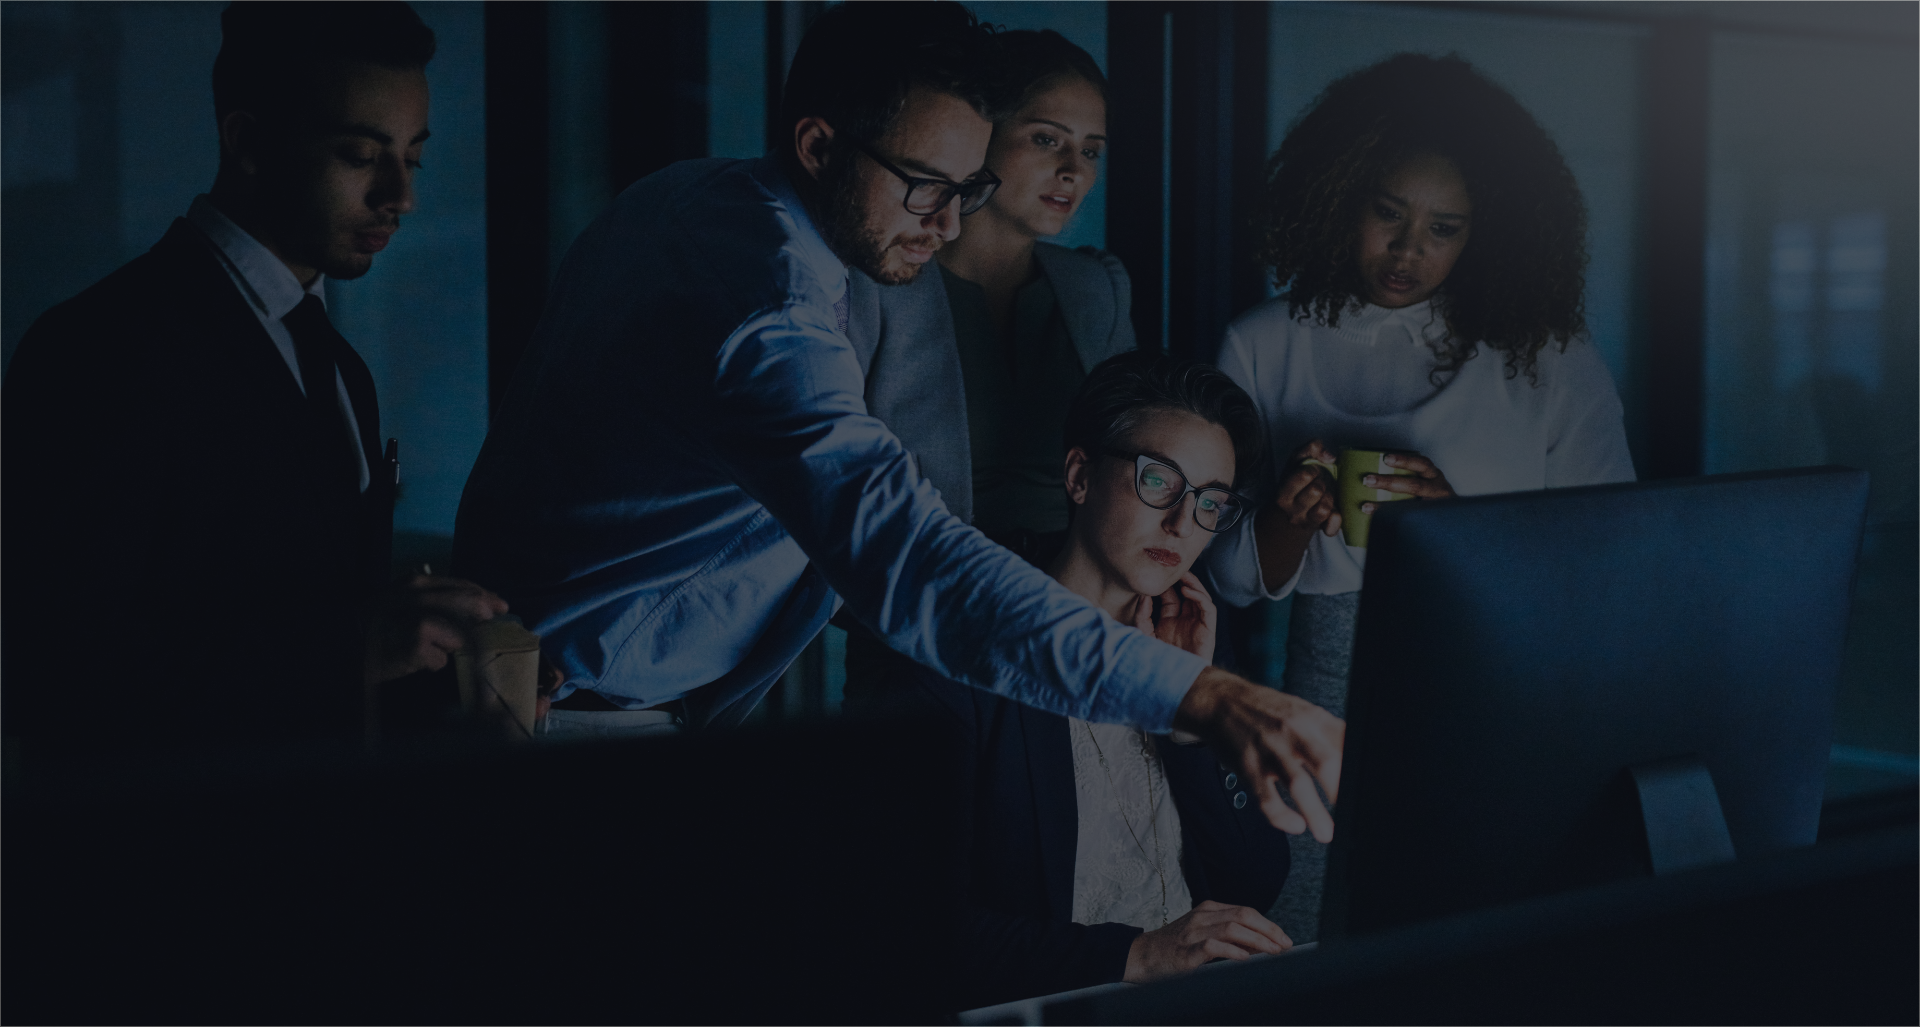
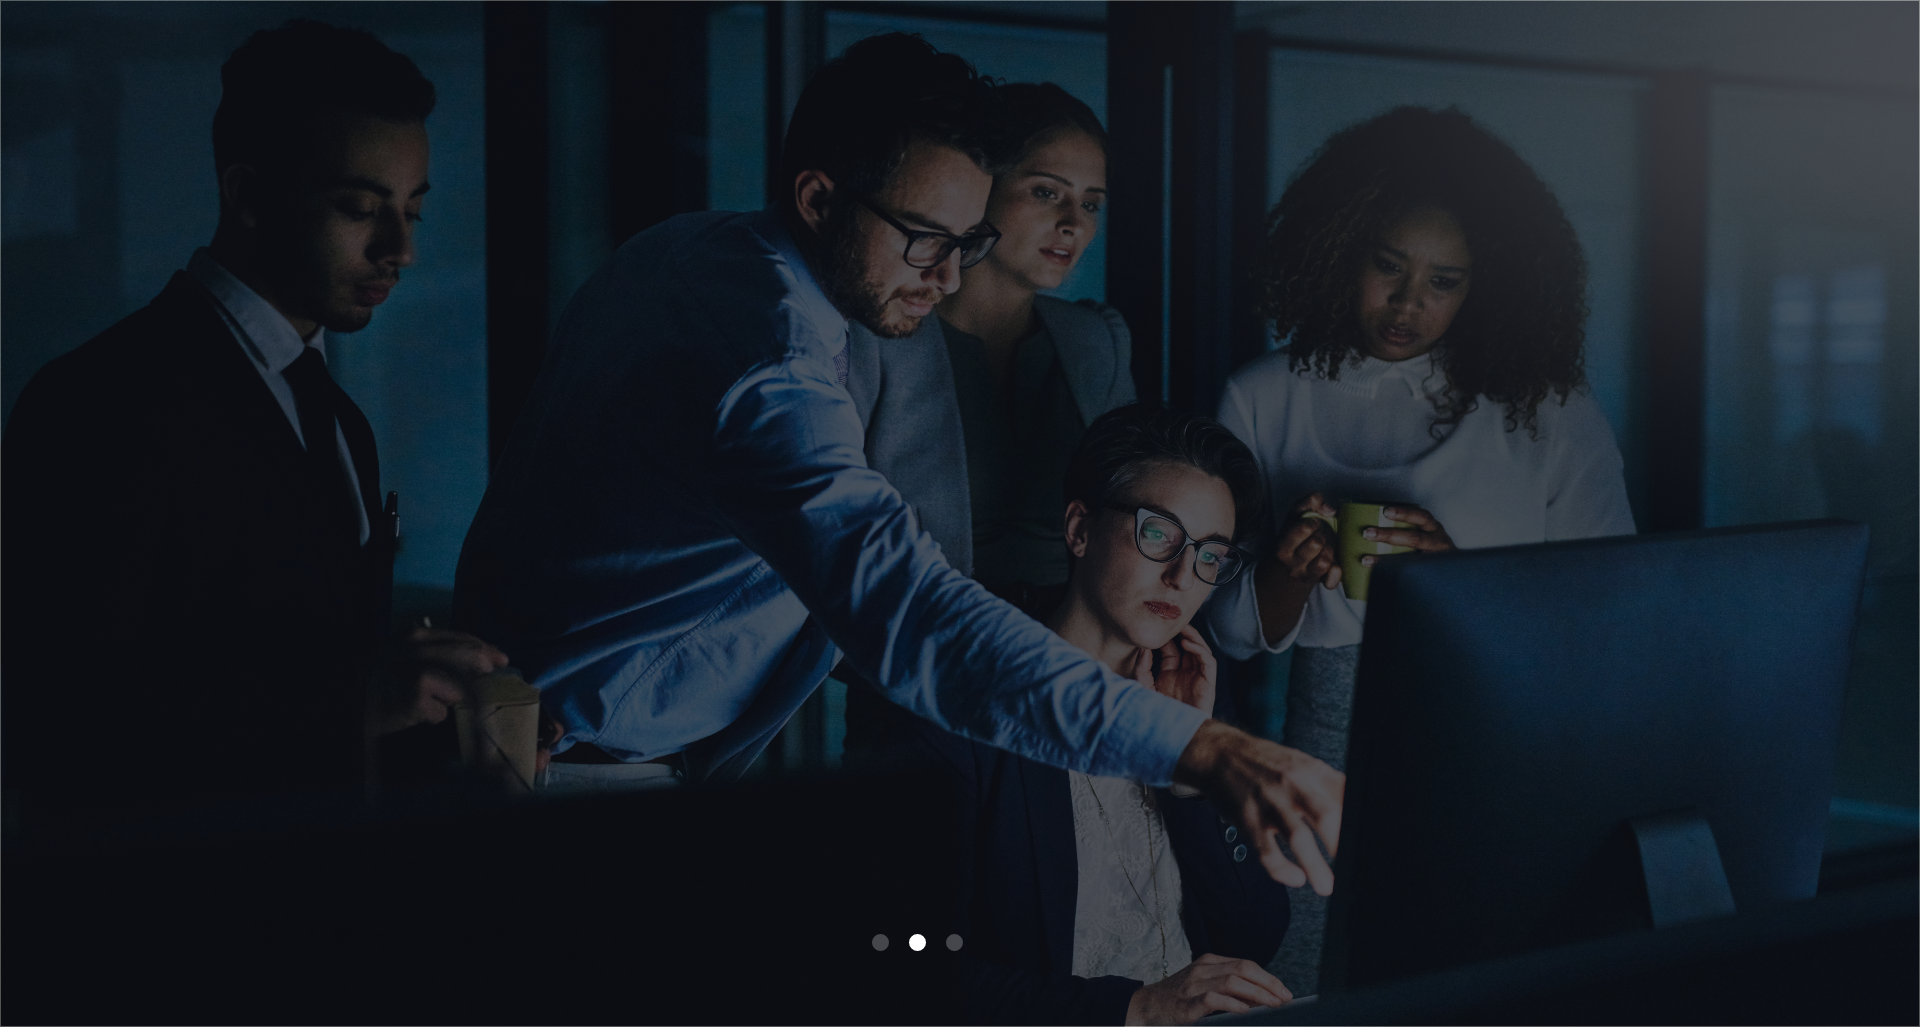
a

diff --git a/public/css/Home.css b/public/css/Home.css
@@ -535,11 +535,15 @@
 
 .portfolio_image_container {
   width: 113%;
+  transition: all 0.5s ease;
 }
 
 .portfolio_image_container > img {
   width: 100%;
   height: 100%;
+}
+.portfolio_image_container:hover {
+  filter: brightness(2.5);
 }
 
 .portfolio_slider_btn {
@@ -582,6 +586,10 @@
   border-top: 1px solid white;
   border-bottom: 1px solid white;
   background-color: transparent;
+  transition: all 0.5s ease;
+}
+.portfolio_content_container button:hover {
+  font-size: 16px;
 }
 @media (max-width: 1600px) {
   .portfolio_content_container {
@@ -618,6 +626,7 @@
   background-image: url("/images/NewUI/testimonialBg.png");
   margin-top: 100px;
   padding: 100px 20px;
+  background-repeat: no-repeat;
 }
 
 .home_testimonials_main h5 {
@@ -693,6 +702,18 @@
 }
 .testimonial-container:hover {
   transform: scale(1.1);
+}
+
+@media (max-width: 1440px) {
+  .testimonial-container {
+    height: 350px;
+  }
+}
+@media (max-width: 1024px) {
+}
+@media (max-width: 768px) {
+}
+@media (max-width: 576px) {
 }
 .testimonial-container > * {
   color: black !important;
@@ -974,6 +995,10 @@
   color: #e50a5c;
   border: 1px solid #e50a5c;
   border-radius: 6px;
+  transition: all 0.5s ease;
+}
+.packages_tabs button:hover {
+  box-shadow: -7.492px 8.544px 30px 0px #14029b44 !important;
 }
 .packages_tabs button.active {
   color: white;
@@ -995,6 +1020,12 @@
   margin: 15px;
   position: relative;
   margin-bottom: 40px;
+  margin-top: 40px;
+  transition: all 0.5s ease;
+}
+.Packages .Card:hover {
+  transform: scale(1.05);
+  cursor: pointer;
 }
 .Packages .Card > div:first-child {
   background: linear-gradient(to left, #cc2b5e, #753a88);
@@ -1097,6 +1128,10 @@
   color: white;
   font-size: 18px;
   box-shadow: #14029b62 0px 7px 29px 0px;
+  transition: all 0.5s ease;
+}
+.Packages .Card .Button:hover {
+  opacity: 0.8;
 }
 
 .Packages .Card .Links {
@@ -1473,7 +1508,7 @@
   flex-direction: column;
   width: fit-content;
   margin: auto;
-  margin-top: 70px;
+  margin-top: 210px;
   width: 100vw;
   overflow-y: hidden;
 }
@@ -1522,6 +1557,8 @@
   .home > h2 {
     font-size: 80px;
   }
+}
+@media (max-width: 1440px) {
 }
 @media (max-width: 1250px) {
   .home > h1 {
@@ -1730,7 +1767,7 @@
   color: #444444;
 }
 
-@media (max-width: 1250px) {
+@media (max-width: 1400px) {
   .achievement > div {
     height: 200px;
     width: 200px;
@@ -1848,6 +1885,11 @@
   margin: 30px 0;
   border-radius: 10px;
   box-shadow: -7.492px 8.544px 30px 0px #14029b44 !important;
+  transition: all 0.5s ease;
+}
+.blog-slider:hover {
+  transform: scale(1);
+  cursor: pointer;
 }
 .blog-slider-content {
   width: 90%;

diff --git a/components/Home/Blogs.js b/components/Home/Blogs.js
@@ -11,7 +11,7 @@ import { CiClock2 } from "react-icons/ci";
 
 const Blogs = () => {
     return (
-        <div style={{ marginTop: "-200px" }} >
+        <div style={{ marginTop: "-100px" }} >
             <h2 style={{ textAlign: "center", fontSize: "60px", textTransform: "uppercase", fontWeight: "300" }} >Blog</h2>
             <div className='blog-slider-container'>
 

diff --git a/public/css/globals.css b/public/css/globals.css
@@ -262,6 +262,13 @@ ul {
 button {
   padding: 0.5rem 1rem;
   font-weight: bold;
+  transition: all 0.5s ease;
+}
+button:hover {
+  transform: scale(1.05);
+}
+button:active {
+  transform: scale(0.95);
 }
 
 .text-green {

diff --git a/public/css/navbar.css b/public/css/navbar.css
@@ -454,6 +454,12 @@
   min-width: 1600px;
 }
 
+@media (max-width: 1440px) {
+  .header_main > img {
+    min-width: 1440px;
+  }
+}
+
 .header-content {
   width: 1500px;
   margin: auto;

diff --git a/components/Home/HomeServices.js b/components/Home/HomeServices.js
@@ -86,7 +86,7 @@ const HomeServices = () => {
     );
   }
   const settings = {
-    dots: false,
+    dots: true,
     infinite: true,
     draggable: true,
     autoplay: true,
